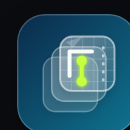
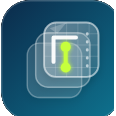
docs: развёрнутый Workflow (scan-order + beam direction), basement wall → Walls, фикс битых якорей, прозрачный логотип
- workflow: новый раздел «сканируй лист» (left→right, top→bottom), beams top-down/left-right; 2 SVG-схемы; ссылки на предметные страницы
- walls/basement: вынес описание каркаса из SQFT в раздел Walls (+nav)
- anchors: ASCII-id для русских заголовков (rules/with-sill-plate/tab-6-ai-manager/hotkeys)
- brand: прозрачный фон логотипа + центрирование

diff --git a/docs/start/workflow.md b/docs/start/workflow.md
@@ -1,46 +1,149 @@
 # Workflow
 
+Полный порядок работы над takeoff — от импорта PDF до отправки. Это общий
+маршрут; детали по каждому scope лежат на предметных страницах раздела
+[Работа](../work-types/com.md), а формулы и waste — в
+[Справочнике](../reference/formulas.md).
+
+!!! tip "Золотое правило"
+    Не «прыгай» по чертежу. Бери **один scope** (например, exterior walls) и
+    **сканируй весь лист слева направо, сверху вниз**, прежде чем переходить к
+    следующему. Так не теряются углы, тупиковые зоны и мелкие элементы.
+
+---
+
+## 0. Главный принцип — сканируй лист целиком
+
+Чертёж читается как страница книги: **слева → направо, сверху → вниз**, строка
+за строкой. Один проход = одна горизонтальная полоса по всей ширине листа; затем
+спускаешься ниже тем же шагом. И так — для **каждого** scope отдельно.
+
+<figure markdown>
+  ![Scan the sheet left-to-right, top-to-bottom](../assets/images/framing/scan-order.svg)
+  <figcaption>Сканируй лист как текст: 1) полоса по всей ширине → 2) ниже → 3) ещё ниже. Один scope за проход.</figcaption>
+</figure>
+
+- **Один scope за раз.** Сначала размечаешь все exterior walls по всему листу,
+  потом возвращаешься наверх и идёшь по corridor, затем demising и т.д.
+- **Не пропускай зоны.** Мелкие куски стен у лестниц, шахт, входов — их легко
+  «перепрыгнуть», если двигаться хаотично.
+- **Помечай сомнительное note сразу.** Лучше лишняя заметка, чем забытая деталь
+  на этапе Excel output.
+
+---
+
 ## 1. Подготовить PDF
 
-1. Импортировать PDF.
-2. Переименовать листы и разложить их по структуре.
-3. Установить scale и проверить его по известному размеру на чертеже.
-4. Просмотреть Arch + Structural + specs перед массовой разметкой.
-5. Отметить сомнительные места notes, чтобы не забыть при Excel output.
+1. **Импортировать PDF** в takeoff-инструмент.
+2. **Переименовать листы** и разложить по структуре (см.
+   [Takeoff structure](takeoff-structure.md)).
+3. **Установить scale** и обязательно **проверить** его по известному размеру на
+   чертеже (door 3'-0", grid spacing). Неверный scale ломает все количества.
+4. **Просмотреть Arch + Structural + specs** до массовой разметки — чтобы знать
+   wall types, fire rating, sheathing notes, holdowns.
+5. **Отметить сомнительные места** notes, чтобы не забыть при Excel output.
 
-## 2. Разметка takeoff
+!!! warning "Scale — в первую очередь"
+    Если scale не выставлен/не проверен, не начинай разметку. Ошибка в scale
+    умножается на весь job.
 
-Базовый порядок для COM:
+---
 
-1. Vertical Constructions: Exterior, Corridor, Demising, Unit/Interior.
-2. Openings.
-3. Sheathing.
-4. SQFT.
-5. Floor Framing: Post, Beam, Joist, Details.
-6. Roof Framing.
-7. Sheathing and Misc.
-8. Deck / Porch / Balcony.
-9. Ties / Connectors.
+## 2. Порядок разметки takeoff
+
+Базовый порядок для COM (сверху вниз по конструкции). Каждый шаг — сканируй лист
+целиком, прежде чем перейти к следующему.
+
+1. **Vertical Constructions** — стены:
+   [Exterior](../work/vertical/walls/exterior.md) ·
+   [Corridor](../work/vertical/walls/corridor.md) ·
+   [Demising](../work/vertical/walls/demising.md) ·
+   [Unit / Interior](../work/vertical/walls/unit.md) ·
+   [Basement](../work/vertical/walls/basement.md).
+2. **Openings** — [Windows & Doors](../work/vertical/openings/windows-doors.md),
+   [Headers](../work/vertical/openings/headers.md).
+3. **Sheathing** — [Wall Sheathing](../work/vertical/sheathing/wall-sheathing.md),
+   [Box Sheathing](../work/vertical/sheathing/box-sheathing.md),
+   [Shear Wall](../work/vertical/sheathing/shear-wall.md).
+4. **SQFT** — площади по уровням:
+   [1st–5th Floors](../work/sqfts/1st2nd.md),
+   [Basement](../work/sqfts/basement.md),
+   [Roof](../work/sqfts/roof.md) и др.
+5. **Floor Framing** —
+   [Post](../work/horizontal/floor-framing/post.md) →
+   [Beam](../work/horizontal/floor-framing/beam.md) →
+   [Joist](../work/horizontal/floor-framing/joist.md) →
+   [Details](../work/horizontal/floor-framing/details/rim.md).
+6. **Roof Framing** —
+   [Ridge / Hip / Valley](../work/horizontal/roof-framing/ridge.md),
+   [Rafters](../work/horizontal/roof-framing/dbl-trpl-rafters.md),
+   [Roof Sheathing](../work/horizontal/roof-framing/roof-sheathing.md).
+7. **Sheathing & Misc** —
+   [Eave / Rake / Returns](../work/sheathing-and-misc/eve.md),
+   [Flashing](../work/sheathing-and-misc/flashing.md).
+8. **Deck / Porch / Balcony** —
+   [Frame](../work/deck/deck-porch-balcony-frame.md).
+9. **Ties / Connectors** — [Hangers](../reference/hangers.md),
+   [Hardware catalog](../reference/hardware-catalog.md).
+
+---
 
 ## 3. Правила разметки
 
-- Beams отмечать top-down / left-right.
-- Длина beam зависит от точки опирания.
-- Beams 8' и длиннее округлять до ближайших 2'.
-- Beams меньше 8' оставлять без округления.
-- Joists внутри одного run продолжать одним spacing top-down или left-right.
-- Не начинать spacing заново от внутренней балки.
-- Удалять joist только если он попадает прямо на beam примерно в пределах 2".
+### Beams — top-down / left-right
+
+Балки размечай **в одном направлении** (top-down и left-right) и держи его весь
+run. Это главное правило: если менять направление по ходу, длины и точки
+опирания начинают «съезжать».
+
+<figure markdown>
+  ![Mark beams top-down, left-right](../assets/images/framing/beam-marking-direction.svg)
+  <figcaption>Balки — сверху вниз, слева направо, одним направлением. Длина — от опоры до опоры; ≥ 8' округлять до 2'.</figcaption>
+</figure>
+
+- **Направление одно** — top-down / left-right, не переключаться внутри run.
+- **Длина** зависит от **точки опирания** (support to support), а не от линии на
+  плане.
+- Beams **8' и длиннее** — округлять до ближайших **2'** (8.4' → 10', 11.2' → 12').
+- Beams **меньше 8'** — оставлять без округления.
+- Подробно про продукт и опоры — [Beam](../work/horizontal/floor-framing/beam.md),
+  опоры — [Post](../work/horizontal/floor-framing/post.md).
+
+### Joists
+
+- Внутри одного run продолжай **одним spacing** — top-down или left-right,
+  не меняя направление.
+- **Не начинай spacing заново** от внутренней балки — run считается сквозным.
+- Удаляй joist, только если он попадает **прямо на beam** (примерно в пределах
+  **2"**).
+- Spacing-факторы (studs vs joists — разные таблицы!) —
+  [Формулы → Spacing factors](../reference/formulas.md).
+- Детали: [Joist](../work/horizontal/floor-framing/joist.md),
+  [Rim](../work/horizontal/floor-framing/details/rim.md),
+  [Blocking](../work/horizontal/floor-framing/details/blocking.md).
+
+---
 
 ## 4. Export в Excel
 
-- Экспортировать takeoff quantities.
-- Перенести в template.
-- Разнести категории: Beams, Joists, Details, Walls, Sheathing, SQFT.
-- Проверять новые формулы сразу, а не после полного job.
-- Не применять 1.1 повторно, если формула уже ссылается на данные с waste.
+- **Экспортировать** takeoff quantities.
+- **Перенести в template** и разнести категории: Beams, Joists, Details, Walls,
+  Sheathing, SQFT.
+- **Проверять новые формулы сразу**, на первой строке, а не после полного job.
+- **Не применять `1.1` повторно**, если формула уже ссылается на данные с waste
+  (двойной waste — частая ошибка, см. [Формулы](../reference/formulas.md)).
+
+---
 
 ## 5. Перед отправкой
 
-Пройти [QA checklist](quality-checklist.md). Для больших COM jobs делать
-PDF sketch/markups, если есть риск забыть детали.
+- Пройти полный [QA checklist](quality-checklist.md).
+- Для больших COM jobs — делать **PDF sketch / markups**, если есть риск забыть
+  детали (см. [Картинки и схемы](images-and-schemas.md)).
+- Сверить спорные места с [Советами и важными вещами](../reference/boss-feedback-rules.md)
+  и [Client Rules](client-rules.md).
+
+## See also
+
+- [How to use](how-to-use.md) · [Takeoff structure](takeoff-structure.md)
+- [Quality checklist](quality-checklist.md) · [Формулы](../reference/formulas.md)

diff --git a/docs/work/vertical/walls/basement.md b/docs/work/vertical/walls/basement.md
@@ -1,0 +1,46 @@
+# Basement Walls
+
+<figure markdown>
+  ![Basement wall on concrete slab](../../../assets/images/sqfts/basement.svg)
+  <figcaption>Цокольная стена на бетоне: btm plate всегда P.T.; box sheathing + vapor barrier.</figcaption>
+</figure>
+
+Если basement walls in scope — это полноценная stick-стена, а не только
+обшивка по площади. Площадь basement-этажа считается отдельно в
+[Basement SQFT](../../sqfts/basement.md); здесь — состав каркаса.
+
+## Что считать
+
+- Studs, plates, blocking, double top plates по высоте стены.
+- Box sheathing (OSB), vapor barrier (Tyvek).
+- Window / sill flashing в проёмах цокольной стены.
+- Corridor-строки внутри подвала (если есть).
+
+## Критические правила
+
+- **Btm-plate цокольной стены всегда `P.T.`** — садится на бетон (контакт с
+  влажным основанием), как и у [Sill Plates](sill-plates.md).
+- Studs — размер авто по высоте (nested-IF), как на full-frame уровнях.
+- Corridor в подвале: `2x6 P.T.` / `LSL P.T.` для btm.
+- **Steel / Mtl walls** встречаются — тогда framing by others, но обшивка
+  (box sheathing), vapor barrier и flashing остаются нашими (как в
+  [Exterior Walls → Metal stud / CMU](exterior.md)).
+
+## Типовой состав строки { .kb-section-title .kb-st--green }
+
+| Строка | Заметка |
+| --- | --- |
+| **Plates Interior btm** | **всегда `P.T.`** (садится на бетон) |
+| **Studs Interior** | размер авто по высоте (nested-IF) |
+| Blocking | `2x` |
+| Plates dbl top | |
+| Plates / Studs Corridor | `2x6 P.T.` / `LSL P.T.` btm |
+| Vapor Barrier | Tyvek |
+| Box Sheathing | OSB |
+| Window / Sill Flashing | проёмы в bsmt-стене |
+
+## See also
+
+- [Sill Plates](sill-plates.md) · [Exterior Walls](exterior.md) · [Corridor Walls](corridor.md)
+- [Box Sheathing](../sheathing/box-sheathing.md)
+- [Basement SQFT](../../sqfts/basement.md) — площадь basement-этажа

diff --git a/docs/work/sqfts/basement.md b/docs/work/sqfts/basement.md
@@ -17,21 +17,13 @@
 - Existing/podium conditions нельзя считать standard panels без
   checking details.
 
-## Basement как каркасная стена { .kb-section-title .kb-st--green }
+!!! note "Каркас цокольной стены — отдельно"
+    Если basement walls in scope, их состав (studs, P.T. btm plates, box
+    sheathing, vapor barrier) считается как полноценная стена — см.
+    [Basement Walls](../vertical/walls/basement.md). Здесь — только площадь этажа.
 
-Если basement walls in scope — это полноценная stick-стена. Типовой состав:
+## See also
 
-| Строка | Заметка |
-| --- | --- |
-| **Plates Interior btm** | **всегда `P.T.`** (садится на бетон) |
-| **Studs Interior** | размер авто по высоте (nested-IF) |
-| Blocking | `2x` |
-| Plates dbl top | |
-| Plates / Studs Corridor | `2x6 P.T.` / `LSL P.T.` btm |
-| Vapor Barrier | Tyvek |
-| Box Sheathing | OSB |
-| Window / Sill Flashing | проёмы в bsmt-стене |
-
-→ Ключевое: **btm-plate цокольной стены всегда P.T.** (контакт с бетоном) — как и
-у [Sill Plates](../vertical/walls/sill-plates.md). Стальной каркас (Steel/Mtl Walls)
-встречается — тогда framing by others, но обшивка/изоляция наши.
+- [Basement Walls](../vertical/walls/basement.md) — каркас цокольной стены
+- [Box Sheathing](../vertical/sheathing/box-sheathing.md) · [Subfloor](../horizontal/floor-framing/subfloor.md)
+- [Формулы → per SQFT](../../reference/formulas.md)

diff --git a/docs/work/vertical/walls/corridor.md b/docs/work/vertical/walls/corridor.md
@@ -6,7 +6,7 @@
   sheathing.
 - Corridor ledgers or drywall ledger where floor framing runs parallel.
 
-## Правила
+## Правила { #rules }
 
 - Corridor studs can be staggered: 2x4 staggered usually means two rows at
   16" o.c. with 2x6 plates.

diff --git a/docs/work/vertical/walls/demising.md b/docs/work/vertical/walls/demising.md
@@ -13,7 +13,7 @@
   wall length; следуй schedule.
 - На обычных demising hanger conditions используют `ITS`, а не `DHU` / `DGU` —
   когда gypsum заканчивается ниже уровня floor framing (т.е. это не настоящая
-  fire wall, см. [Corridor → DHU/DGU](corridor.md#правила)).
+  fire wall, см. [Corridor → DHU/DGU](corridor.md#rules)).
 
 ## Проверить
 